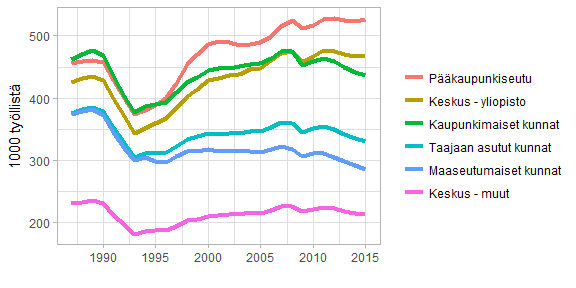
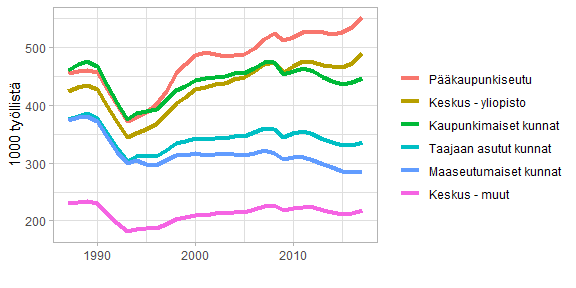
Fix vignette

diff --git a/vignettes/Introduction.html b/vignettes/Introduction.html
@@ -12,14 +12,14 @@
 
 <meta name="author" content="Janne Huovari" />
 
-<meta name="date" content="2017-10-19" />
+<meta name="date" content="2019-05-04" />
 
 <title>Introduction to statfitools</title>
 
 
 
 <style type="text/css">code{white-space: pre;}</style>
-<style type="text/css">
+<style type="text/css" data-origin="pandoc">
 div.sourceCode { overflow-x: auto; }
 table.sourceCode, tr.sourceCode, td.lineNumbers, td.sourceCode {
   margin: 0; padding: 0; vertical-align: baseline; border: none; }
@@ -55,11 +55,36 @@ code > span.do { color: #ba2121; font-style: italic; } /* Documentation */
 code > span.an { color: #60a0b0; font-weight: bold; font-style: italic; } /* Annotation */
 code > span.cv { color: #60a0b0; font-weight: bold; font-style: italic; } /* CommentVar */
 code > span.in { color: #60a0b0; font-weight: bold; font-style: italic; } /* Information */
+
 </style>
+<script>
+// apply pandoc div.sourceCode style to pre.sourceCode instead
+(function() {
+  var sheets = document.styleSheets;
+  for (var i = 0; i < sheets.length; i++) {
+    if (sheets[i].ownerNode.dataset["origin"] !== "pandoc") continue;
+    try { var rules = sheets[i].cssRules; } catch (e) { continue; }
+    for (var j = 0; j < rules.length; j++) {
+      var rule = rules[j];
+      // check if there is a div.sourceCode rule
+      if (rule.type !== rule.STYLE_RULE || rule.selectorText !== "div.sourceCode") continue;
+      var style = rule.style.cssText;
+      // check if color or background-color is set
+      if (rule.style.color === '' || rule.style.backgroundColor === '') continue;
+      // replace div.sourceCode by a pre.sourceCode rule
+      sheets[i].deleteRule(j);
+      sheets[i].insertRule('pre.sourceCode{' + style + '}', j);
+    }
+  }
+})();
+</script>
 
 
 
 <link href="data:text/css;charset=utf-8,body%20%7B%0Abackground%2Dcolor%3A%20%23fff%3B%0Amargin%3A%201em%20auto%3B%0Amax%2Dwidth%3A%20700px%3B%0Aoverflow%3A%20visible%3B%0Apadding%2Dleft%3A%202em%3B%0Apadding%2Dright%3A%202em%3B%0Afont%2Dfamily%3A%20%22Open%20Sans%22%2C%20%22Helvetica%20Neue%22%2C%20Helvetica%2C%20Arial%2C%20sans%2Dserif%3B%0Afont%2Dsize%3A%2014px%3B%0Aline%2Dheight%3A%201%2E35%3B%0A%7D%0A%23header%20%7B%0Atext%2Dalign%3A%20center%3B%0A%7D%0A%23TOC%20%7B%0Aclear%3A%20both%3B%0Amargin%3A%200%200%2010px%2010px%3B%0Apadding%3A%204px%3B%0Awidth%3A%20400px%3B%0Aborder%3A%201px%20solid%20%23CCCCCC%3B%0Aborder%2Dradius%3A%205px%3B%0Abackground%2Dcolor%3A%20%23f6f6f6%3B%0Afont%2Dsize%3A%2013px%3B%0Aline%2Dheight%3A%201%2E3%3B%0A%7D%0A%23TOC%20%2Etoctitle%20%7B%0Afont%2Dweight%3A%20bold%3B%0Afont%2Dsize%3A%2015px%3B%0Amargin%2Dleft%3A%205px%3B%0A%7D%0A%23TOC%20ul%20%7B%0Apadding%2Dleft%3A%2040px%3B%0Amargin%2Dleft%3A%20%2D1%2E5em%3B%0Amargin%2Dtop%3A%205px%3B%0Amargin%2Dbottom%3A%205px%3B%0A%7D%0A%23TOC%20ul%20ul%20%7B%0Amargin%2Dleft%3A%20%2D2em%3B%0A%7D%0A%23TOC%20li%20%7B%0Aline%2Dheight%3A%2016px%3B%0A%7D%0Atable%20%7B%0Amargin%3A%201em%20auto%3B%0Aborder%2Dwidth%3A%201px%3B%0Aborder%2Dcolor%3A%20%23DDDDDD%3B%0Aborder%2Dstyle%3A%20outset%3B%0Aborder%2Dcollapse%3A%20collapse%3B%0A%7D%0Atable%20th%20%7B%0Aborder%2Dwidth%3A%202px%3B%0Apadding%3A%205px%3B%0Aborder%2Dstyle%3A%20inset%3B%0A%7D%0Atable%20td%20%7B%0Aborder%2Dwidth%3A%201px%3B%0Aborder%2Dstyle%3A%20inset%3B%0Aline%2Dheight%3A%2018px%3B%0Apadding%3A%205px%205px%3B%0A%7D%0Atable%2C%20table%20th%2C%20table%20td%20%7B%0Aborder%2Dleft%2Dstyle%3A%20none%3B%0Aborder%2Dright%2Dstyle%3A%20none%3B%0A%7D%0Atable%20thead%2C%20table%20tr%2Eeven%20%7B%0Abackground%2Dcolor%3A%20%23f7f7f7%3B%0A%7D%0Ap%20%7B%0Amargin%3A%200%2E5em%200%3B%0A%7D%0Ablockquote%20%7B%0Abackground%2Dcolor%3A%20%23f6f6f6%3B%0Apadding%3A%200%2E25em%200%2E75em%3B%0A%7D%0Ahr%20%7B%0Aborder%2Dstyle%3A%20solid%3B%0Aborder%3A%20none%3B%0Aborder%2Dtop%3A%201px%20solid%20%23777%3B%0Amargin%3A%2028px%200%3B%0A%7D%0Adl%20%7B%0Amargin%2Dleft%3A%200%3B%0A%7D%0Adl%20dd%20%7B%0Amargin%2Dbottom%3A%2013px%3B%0Amargin%2Dleft%3A%2013px%3B%0A%7D%0Adl%20dt%20%7B%0Afont%2Dweight%3A%20bold%3B%0A%7D%0Aul%20%7B%0Amargin%2Dtop%3A%200%3B%0A%7D%0Aul%20li%20%7B%0Alist%2Dstyle%3A%20circle%20outside%3B%0A%7D%0Aul%20ul%20%7B%0Amargin%2Dbottom%3A%200%3B%0A%7D%0Apre%2C%20code%20%7B%0Abackground%2Dcolor%3A%20%23f7f7f7%3B%0Aborder%2Dradius%3A%203px%3B%0Acolor%3A%20%23333%3B%0Awhite%2Dspace%3A%20pre%2Dwrap%3B%20%0A%7D%0Apre%20%7B%0Aborder%2Dradius%3A%203px%3B%0Amargin%3A%205px%200px%2010px%200px%3B%0Apadding%3A%2010px%3B%0A%7D%0Apre%3Anot%28%5Bclass%5D%29%20%7B%0Abackground%2Dcolor%3A%20%23f7f7f7%3B%0A%7D%0Acode%20%7B%0Afont%2Dfamily%3A%20Consolas%2C%20Monaco%2C%20%27Courier%20New%27%2C%20monospace%3B%0Afont%2Dsize%3A%2085%25%3B%0A%7D%0Ap%20%3E%20code%2C%20li%20%3E%20code%20%7B%0Apadding%3A%202px%200px%3B%0A%7D%0Adiv%2Efigure%20%7B%0Atext%2Dalign%3A%20center%3B%0A%7D%0Aimg%20%7B%0Abackground%2Dcolor%3A%20%23FFFFFF%3B%0Apadding%3A%202px%3B%0Aborder%3A%201px%20solid%20%23DDDDDD%3B%0Aborder%2Dradius%3A%203px%3B%0Aborder%3A%201px%20solid%20%23CCCCCC%3B%0Amargin%3A%200%205px%3B%0A%7D%0Ah1%20%7B%0Amargin%2Dtop%3A%200%3B%0Afont%2Dsize%3A%2035px%3B%0Aline%2Dheight%3A%2040px%3B%0A%7D%0Ah2%20%7B%0Aborder%2Dbottom%3A%204px%20solid%20%23f7f7f7%3B%0Apadding%2Dtop%3A%2010px%3B%0Apadding%2Dbottom%3A%202px%3B%0Afont%2Dsize%3A%20145%25%3B%0A%7D%0Ah3%20%7B%0Aborder%2Dbottom%3A%202px%20solid%20%23f7f7f7%3B%0Apadding%2Dtop%3A%2010px%3B%0Afont%2Dsize%3A%20120%25%3B%0A%7D%0Ah4%20%7B%0Aborder%2Dbottom%3A%201px%20solid%20%23f7f7f7%3B%0Amargin%2Dleft%3A%208px%3B%0Afont%2Dsize%3A%20105%25%3B%0A%7D%0Ah5%2C%20h6%20%7B%0Aborder%2Dbottom%3A%201px%20solid%20%23ccc%3B%0Afont%2Dsize%3A%20105%25%3B%0A%7D%0Aa%20%7B%0Acolor%3A%20%230033dd%3B%0Atext%2Ddecoration%3A%20none%3B%0A%7D%0Aa%3Ahover%20%7B%0Acolor%3A%20%236666ff%3B%20%7D%0Aa%3Avisited%20%7B%0Acolor%3A%20%23800080%3B%20%7D%0Aa%3Avisited%3Ahover%20%7B%0Acolor%3A%20%23BB00BB%3B%20%7D%0Aa%5Bhref%5E%3D%22http%3A%22%5D%20%7B%0Atext%2Ddecoration%3A%20underline%3B%20%7D%0Aa%5Bhref%5E%3D%22https%3A%22%5D%20%7B%0Atext%2Ddecoration%3A%20underline%3B%20%7D%0A%0Acode%20%3E%20span%2Ekw%20%7B%20color%3A%20%23555%3B%20font%2Dweight%3A%20bold%3B%20%7D%20%0Acode%20%3E%20span%2Edt%20%7B%20color%3A%20%23902000%3B%20%7D%20%0Acode%20%3E%20span%2Edv%20%7B%20color%3A%20%2340a070%3B%20%7D%20%0Acode%20%3E%20span%2Ebn%20%7B%20color%3A%20%23d14%3B%20%7D%20%0Acode%20%3E%20span%2Efl%20%7B%20color%3A%20%23d14%3B%20%7D%20%0Acode%20%3E%20span%2Ech%20%7B%20color%3A%20%23d14%3B%20%7D%20%0Acode%20%3E%20span%2Est%20%7B%20color%3A%20%23d14%3B%20%7D%20%0Acode%20%3E%20span%2Eco%20%7B%20color%3A%20%23888888%3B%20font%2Dstyle%3A%20italic%3B%20%7D%20%0Acode%20%3E%20span%2Eot%20%7B%20color%3A%20%23007020%3B%20%7D%20%0Acode%20%3E%20span%2Eal%20%7B%20color%3A%20%23ff0000%3B%20font%2Dweight%3A%20bold%3B%20%7D%20%0Acode%20%3E%20span%2Efu%20%7B%20color%3A%20%23900%3B%20font%2Dweight%3A%20bold%3B%20%7D%20%20code%20%3E%20span%2Eer%20%7B%20color%3A%20%23a61717%3B%20background%2Dcolor%3A%20%23e3d2d2%3B%20%7D%20%0A" rel="stylesheet" type="text/css" />
+
+
+
 
 </head>
 
@@ -69,8 +94,8 @@ code > span.in { color: #60a0b0; font-weight: bold; font-style: italic; } /* Inf
 
 
 <h1 class="title toc-ignore">Introduction to statfitools</h1>
-<h4 class="author"><em>Janne Huovari</em></h4>
-<h4 class="date"><em>2017-10-19</em></h4>
+<h4 class="author">Janne Huovari</h4>
+<h4 class="date">2019-05-04</h4>
 
 
 
@@ -87,18 +112,35 @@ code > span.in { color: #60a0b0; font-weight: bold; font-style: italic; } /* Inf
 <pre><code>## The following objects are masked from 'package:base':
 ## 
 ##     intersect, setdiff, setequal, union</code></pre>
-<div class="sourceCode"><pre class="sourceCode r"><code class="sourceCode r"><span class="kw">library</span>(ggplot2)
-<span class="kw">library</span>(forcats)</code></pre></div>
+<div class="sourceCode"><pre class="sourceCode r"><code class="sourceCode r"><span class="kw">library</span>(ggplot2)</code></pre></div>
+<pre><code>## Registered S3 methods overwritten by 'ggplot2':
+##   method         from 
+##   [.quosures     rlang
+##   c.quosures     rlang
+##   print.quosures rlang</code></pre>
+<div class="sourceCode"><pre class="sourceCode r"><code class="sourceCode r"><span class="kw">library</span>(forcats)</code></pre></div>
 <p>Get data from the Statistics Finland and clean variable names and time variable.</p>
-<div class="sourceCode"><pre class="sourceCode r"><code class="sourceCode r">dat_ku &lt;-<span class="st"> </span>pxweb<span class="op">::</span><span class="kw">get_pxweb_data</span>(
-    <span class="dt">url =</span> <span class="st">&quot;http://pxnet2.stat.fi/PXWeb/api/v1/fi/StatFin/vrm/tyokay/statfin_tyokay_pxt_001.px&quot;</span>,
-    <span class="dt">dims =</span> <span class="kw">list</span>(<span class="dt">Alue =</span> <span class="kw">c</span>(<span class="st">'*'</span>),
+<div class="sourceCode"><pre class="sourceCode r"><code class="sourceCode r"><span class="co"># 115b -- Väestö alueen, pääasiallisen toiminnan, sukupuolen, iän ja vuoden mukaan, 1987-2017</span>
+
+pxweb<span class="op">::</span><span class="kw">pxweb_get</span>(<span class="st">&quot;http://pxnet2.stat.fi/PXWeb/api/v1/fi/StatFin/vrm/tyokay/statfin_tyokay_pxt_115b.px&quot;</span>)</code></pre></div>
+<pre><code>## PXWEB METADATA
+## Väestö alueen, pääasiallisen toiminnan, sukupuolen, iän ja vuoden mukaan muuttujina Alue, Pääasiallinen toiminta, Sukupuoli, Ikä, Vuosi ja Tiedot 
+## variables:
+##  [[1]] Alue: Alue
+##  [[2]] Pääasiallinen toiminta: Pääasiallinen toiminta
+##  [[3]] Sukupuoli: Sukupuoli
+##  [[4]] Ikä: Ikä
+##  [[5]] Vuosi: Vuosi
+##  [[6]] Tiedot: Tiedot</code></pre>
+<div class="sourceCode"><pre class="sourceCode r"><code class="sourceCode r">dat_ku &lt;-<span class="st"> </span>pxweb<span class="op">::</span><span class="kw">pxweb_get_data</span>(
+    <span class="dt">url =</span> <span class="st">&quot;http://pxnet2.stat.fi/PXWeb/api/v1/fi/StatFin/vrm/tyokay/statfin_tyokay_pxt_115b.px&quot;</span>,
+    <span class="dt">query =</span> <span class="kw">list</span>(<span class="dt">Tiedot =</span> <span class="kw">c</span>(<span class="st">&quot;lkm&quot;</span>),
+                 <span class="dt">Alue =</span> <span class="kw">c</span>(<span class="st">'*'</span>),
                <span class="st">&quot;Pääasiallinen toiminta&quot;</span> =<span class="st"> </span><span class="kw">c</span>(<span class="st">'11'</span>),
-               <span class="dt">Sukupuoli =</span> <span class="kw">c</span>(<span class="st">'S'</span>),
+               <span class="dt">Sukupuoli =</span> <span class="kw">c</span>(<span class="st">'SSS'</span>),
                <span class="st">&quot;Ikä&quot;</span> =<span class="st"> </span><span class="kw">c</span>(<span class="st">'SSS'</span>),
-               <span class="dt">Vuosi =</span> <span class="kw">c</span>(<span class="st">'*'</span>)),
-    <span class="dt">clean =</span> <span class="ot">TRUE</span>) <span class="op">%&gt;%</span><span class="st"> </span>
-<span class="st">  </span><span class="kw">clean_names</span>() <span class="op">%&gt;%</span><span class="st"> </span>
+               <span class="dt">Vuosi =</span> <span class="kw">c</span>(<span class="st">'*'</span>))) <span class="op">%&gt;%</span><span class="st"> </span>
+<span class="st">  </span><span class="kw">clean_names</span>(<span class="dt">rename_values =</span> <span class="ot">TRUE</span>) <span class="op">%&gt;%</span><span class="st"> </span>
 <span class="st">  </span><span class="kw">clean_times</span>()</code></pre></div>
 <p>Aggregate data using classification “Keskuskuntaryhma” included in the package.</p>
 <div class="sourceCode"><pre class="sourceCode r"><code class="sourceCode r">dat_keskuskunta &lt;-<span class="st"> </span>dat_ku <span class="op">%&gt;%</span><span class="st"> </span>
@@ -121,7 +163,7 @@ code > span.in { color: #60a0b0; font-weight: bold; font-style: italic; } /* Inf
 <span class="st">  </span><span class="kw">guides</span>(<span class="dt">colour =</span> <span class="kw">guide_legend</span>(<span class="st">&quot;&quot;</span>)) <span class="op">+</span>
 <span class="st">  </span><span class="kw">ylab</span>(<span class="st">&quot;1000 työllistä&quot;</span>) <span class="op">+</span><span class="st"> </span><span class="kw">xlab</span>(<span class="st">&quot;&quot;</span>) <span class="op">+</span>
 <span class="st">  </span><span class="kw">theme_light</span>()</code></pre></div>
[2 lines of base64/hex data omitted]
 </div>
 
 

diff --git a/vignettes/Introduction.md b/vignettes/Introduction.md
@@ -1,6 +1,15 @@
-# Introduction to statfitools
-Janne Huovari  
-`r Sys.Date()`  
+---
+title: "Introduction to statfitools"
+author: "Janne Huovari"
+date: "2019-05-04"
+output: 
+  rmarkdown::html_vignette:
+    keep_md: true
+vignette: >
+  %\VignetteIndexEntry{Vignette Title}
+  %\VignetteEngine{knitr::rmarkdown}
+  %\VignetteEncoding{UTF-8}
+---
 
 # Aggregate municipality data
 
@@ -31,6 +40,17 @@ library(dplyr)
 
 ```r
 library(ggplot2)
+```
+
+```
+## Registered S3 methods overwritten by 'ggplot2':
+##   method         from 
+##   [.quosures     rlang
+##   c.quosures     rlang
+##   print.quosures rlang
+```
+
+```r
 library(forcats)
 ```
 
@@ -38,15 +58,33 @@ Get data from the Statistics Finland and clean variable names and time variable.
 
 
 ```r
-dat_ku <- pxweb::get_pxweb_data(
-    url = "http://pxnet2.stat.fi/PXWeb/api/v1/fi/StatFin/vrm/tyokay/statfin_tyokay_pxt_001.px",
-    dims = list(Alue = c('*'),
+# 115b -- Väestö alueen, pääasiallisen toiminnan, sukupuolen, iän ja vuoden mukaan, 1987-2017
+
+pxweb::pxweb_get("http://pxnet2.stat.fi/PXWeb/api/v1/fi/StatFin/vrm/tyokay/statfin_tyokay_pxt_115b.px")
+```
+
+```
+## PXWEB METADATA
+## Väestö alueen, pääasiallisen toiminnan, sukupuolen, iän ja vuoden mukaan muuttujina Alue, Pääasiallinen toiminta, Sukupuoli, Ikä, Vuosi ja Tiedot 
+## variables:
+##  [[1]] Alue: Alue
+##  [[2]] Pääasiallinen toiminta: Pääasiallinen toiminta
+##  [[3]] Sukupuoli: Sukupuoli
+##  [[4]] Ikä: Ikä
+##  [[5]] Vuosi: Vuosi
+##  [[6]] Tiedot: Tiedot
+```
+
+```r
+dat_ku <- pxweb::pxweb_get_data(
+    url = "http://pxnet2.stat.fi/PXWeb/api/v1/fi/StatFin/vrm/tyokay/statfin_tyokay_pxt_115b.px",
+    query = list(Tiedot = c("lkm"),
+                 Alue = c('*'),
                "Pääasiallinen toiminta" = c('11'),
-               Sukupuoli = c('S'),
+               Sukupuoli = c('SSS'),
                "Ikä" = c('SSS'),
-               Vuosi = c('*')),
-    clean = TRUE) %>% 
-  clean_names() %>% 
+               Vuosi = c('*'))) %>% 
+  clean_names(rename_values = TRUE) %>% 
   clean_times()
 ```
 

diff --git a/NEWS.md b/NEWS.md
@@ -1,8 +1,9 @@
-# statfitools 0.3.4
+# statfitools 0.3.5
 
 * Fix `clean_times` for quarterly and monthly data, again.
 * A new argument rename_values to `clean_names` to rename last columns of data.frame as "values".
 * `clean_times` now adds time column to previous position of year column.
+* Fix vignette error due to change in Statistics Finland
 
 # statfitools 0.3.4
 
